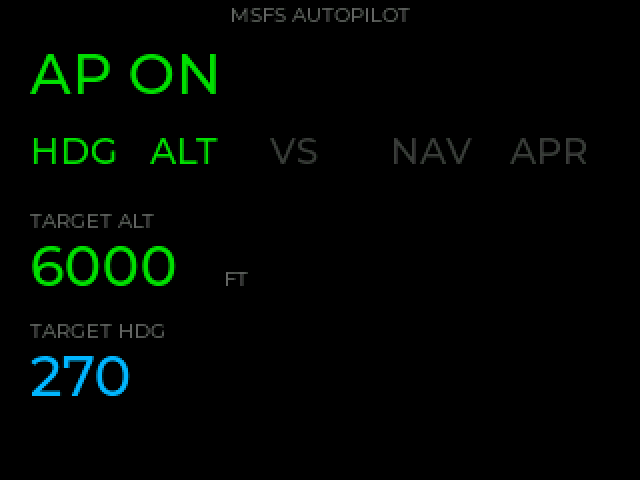
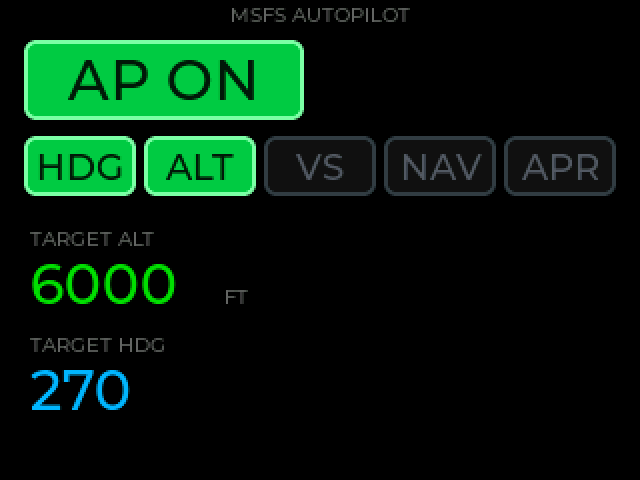
Autopilot annunciator tiles; compass starts at the real heading
- AutopilotStatus: AP master and HDG/ALT/VS/NAV/APR as rounded tiles that
  light up green when engaged, readouts spaced below them
- NavDisplay: the first heading sample snaps instead of easing in from north

Claude-Session: https://claude.ai/code/session_01Amo2z6QrNcU4u27ABwkwBD

diff --git a/lib/hud_widgets/AutopilotStatus.h b/lib/hud_widgets/AutopilotStatus.h
@@ -16,21 +16,14 @@ public:
     lv_label_set_text(title, "MSFS AUTOPILOT");
     lv_obj_align(title, LV_ALIGN_TOP_MID, 0, 2);
 
-    // AP Master (large indicator)
-    _lblMaster = lv_label_create(parent);
-    lv_obj_set_style_text_font(_lblMaster, &lv_font_montserrat_28, 0);
-    lv_label_set_text(_lblMaster, "AP OFF");
-    lv_obj_set_style_text_color(_lblMaster, lv_color_make(100, 100, 100), 0);
-    lv_obj_set_pos(_lblMaster, 15, 22);
+    // AP Master: a large annunciator tile
+    _tileMaster = makeTile(parent, 12, 20, 140, 40, &lv_font_montserrat_28, "AP OFF");
+    _lblMaster = lv_obj_get_child(_tileMaster, 0);
 
-    // Mode annunciators (row)
+    // Mode annunciators: a row of tiles that light up when engaged
     static const char* MODE_NAMES[] = { "HDG", "ALT", "VS", "NAV", "APR" };
     for (int i = 0; i < 5; i++) {
-      _lblModes[i] = lv_label_create(parent);
-      lv_obj_set_style_text_font(_lblModes[i], &lv_font_montserrat_18, 0);
-      lv_obj_set_style_text_color(_lblModes[i], lv_color_make(60, 60, 60), 0);
-      lv_label_set_text(_lblModes[i], MODE_NAMES[i]);
-      lv_obj_set_pos(_lblModes[i], 15 + i * 60, 65);
+      _tileModes[i] = makeTile(parent, 12 + i * 60, 68, 56, 30, &lv_font_montserrat_18, MODE_NAMES[i]);
     }
 
     // Target altitude
@@ -38,32 +31,32 @@ public:
     lv_obj_set_style_text_color(altTitle, lv_color_make(100, 100, 100), 0);
     lv_obj_set_style_text_font(altTitle, &lv_font_montserrat_10, 0);
     lv_label_set_text(altTitle, "TARGET ALT");
-    lv_obj_set_pos(altTitle, 15, 105);
+    lv_obj_set_pos(altTitle, 15, 114);
 
     _lblTargetAlt = lv_label_create(parent);
     lv_obj_set_style_text_color(_lblTargetAlt, lv_color_make(0, 220, 0), 0);
     lv_obj_set_style_text_font(_lblTargetAlt, &lv_font_montserrat_28, 0);
     lv_label_set_text(_lblTargetAlt, "-----");
-    lv_obj_set_pos(_lblTargetAlt, 15, 118);
+    lv_obj_set_pos(_lblTargetAlt, 15, 127);
 
     lv_obj_t* ftLabel = lv_label_create(parent);
     lv_obj_set_style_text_color(ftLabel, lv_color_make(100, 100, 100), 0);
     lv_obj_set_style_text_font(ftLabel, &lv_font_montserrat_10, 0);
     lv_label_set_text(ftLabel, "FT");
-    lv_obj_set_pos(ftLabel, 112, 134);
+    lv_obj_set_pos(ftLabel, 112, 143);
 
     // Target heading
     lv_obj_t* hdgTitle = lv_label_create(parent);
     lv_obj_set_style_text_color(hdgTitle, lv_color_make(100, 100, 100), 0);
     lv_obj_set_style_text_font(hdgTitle, &lv_font_montserrat_10, 0);
     lv_label_set_text(hdgTitle, "TARGET HDG");
-    lv_obj_set_pos(hdgTitle, 15, 160);
+    lv_obj_set_pos(hdgTitle, 15, 167);
 
     _lblTargetHdg = lv_label_create(parent);
     lv_obj_set_style_text_color(_lblTargetHdg, lv_color_make(0, 180, 255), 0);
     lv_obj_set_style_text_font(_lblTargetHdg, &lv_font_montserrat_28, 0);
     lv_label_set_text(_lblTargetHdg, "---");
-    lv_obj_set_pos(_lblTargetHdg, 15, 173);
+    lv_obj_set_pos(_lblTargetHdg, 15, 180);
   }
 
   void setValue(uint16_t modeFlags, int32_t targetAlt, int16_t targetHdg) {
@@ -76,14 +69,11 @@ public:
     // AP Master
     bool master = modeFlags & 0x01;
     lv_label_set_text(_lblMaster, master ? "AP ON" : "AP OFF");
-    lv_obj_set_style_text_color(_lblMaster,
-      master ? lv_color_make(0, 220, 0) : lv_color_make(100, 100, 100), 0);
+    setTile(_tileMaster, master);
 
     // Mode annunciators: bits 1-5 map to HDG, ALT, VS, NAV, APR
     for (int i = 0; i < 5; i++) {
-      bool active = modeFlags & (1 << (i + 1));
-      lv_obj_set_style_text_color(_lblModes[i],
-        active ? lv_color_make(0, 220, 0) : lv_color_make(60, 60, 60), 0);
+      setTile(_tileModes[i], modeFlags & (1 << (i + 1)));
     }
 
     // Target altitude
@@ -104,11 +94,42 @@ public:
   }
 
 private:
+  /// Rounded annunciator tile with a centred label (child 0).
+  static lv_obj_t* makeTile(lv_obj_t* parent, int x, int y, int w, int h,
+                            const lv_font_t* font, const char* text) {
+    lv_obj_t* tile = lv_obj_create(parent);
+    lv_obj_remove_style_all(tile);
+    lv_obj_remove_flag(tile, LV_OBJ_FLAG_CLICKABLE);
+    lv_obj_remove_flag(tile, LV_OBJ_FLAG_SCROLLABLE);
+    lv_obj_set_pos(tile, x, y);
+    lv_obj_set_size(tile, w, h);
+    lv_obj_set_style_radius(tile, 6, 0);
+    lv_obj_set_style_bg_opa(tile, LV_OPA_COVER, 0);
+    lv_obj_set_style_border_width(tile, 2, 0);
+
+    lv_obj_t* lbl = lv_label_create(tile);
+    lv_obj_set_style_text_font(lbl, font, 0);
+    lv_label_set_text(lbl, text);
+    lv_obj_center(lbl);
+    setTile(tile, false);
+    return tile;
+  }
+
+  /// Engaged: lit green with dark text. Off: dark tile, dim outline and text.
+  static void setTile(lv_obj_t* tile, bool on) {
+    lv_obj_t* lbl = lv_obj_get_child(tile, 0);
+    lv_obj_set_style_bg_color(tile, on ? lv_color_make(0, 200, 70) : lv_color_make(16, 18, 22), 0);
+    lv_obj_set_style_border_color(tile, on ? lv_color_make(120, 255, 160) : lv_color_make(55, 60, 66), 0);
+    lv_obj_set_style_text_color(lbl, on ? lv_color_make(0, 24, 8) : lv_color_make(85, 90, 96), 0);
+    lv_obj_center(lbl);  // the text width changes ("AP ON" / "AP OFF")
+  }
+
+  lv_obj_t* _tileMaster = nullptr;
+  lv_obj_t* _tileModes[5] = {};
   uint16_t _prevFlags = UINT16_MAX;
   int32_t _prevAlt = INT32_MIN;
   int16_t _prevHdg = INT16_MIN;
   lv_obj_t* _lblMaster = nullptr;
-  lv_obj_t* _lblModes[5] = {};
   lv_obj_t* _lblTargetAlt = nullptr;
   lv_obj_t* _lblTargetHdg = nullptr;
 };

diff --git a/ship_hud/AutopilotStatus.h b/ship_hud/AutopilotStatus.h
@@ -16,21 +16,14 @@ public:
     lv_label_set_text(title, "MSFS AUTOPILOT");
     lv_obj_align(title, LV_ALIGN_TOP_MID, 0, 2);
 
-    // AP Master (large indicator)
-    _lblMaster = lv_label_create(parent);
-    lv_obj_set_style_text_font(_lblMaster, &lv_font_montserrat_28, 0);
-    lv_label_set_text(_lblMaster, "AP OFF");
-    lv_obj_set_style_text_color(_lblMaster, lv_color_make(100, 100, 100), 0);
-    lv_obj_set_pos(_lblMaster, 15, 22);
+    // AP Master: a large annunciator tile
+    _tileMaster = makeTile(parent, 12, 20, 140, 40, &lv_font_montserrat_28, "AP OFF");
+    _lblMaster = lv_obj_get_child(_tileMaster, 0);
 
-    // Mode annunciators (row)
+    // Mode annunciators: a row of tiles that light up when engaged
     static const char* MODE_NAMES[] = { "HDG", "ALT", "VS", "NAV", "APR" };
     for (int i = 0; i < 5; i++) {
-      _lblModes[i] = lv_label_create(parent);
-      lv_obj_set_style_text_font(_lblModes[i], &lv_font_montserrat_18, 0);
-      lv_obj_set_style_text_color(_lblModes[i], lv_color_make(60, 60, 60), 0);
-      lv_label_set_text(_lblModes[i], MODE_NAMES[i]);
-      lv_obj_set_pos(_lblModes[i], 15 + i * 60, 65);
+      _tileModes[i] = makeTile(parent, 12 + i * 60, 68, 56, 30, &lv_font_montserrat_18, MODE_NAMES[i]);
     }
 
     // Target altitude
@@ -38,32 +31,32 @@ public:
     lv_obj_set_style_text_color(altTitle, lv_color_make(100, 100, 100), 0);
     lv_obj_set_style_text_font(altTitle, &lv_font_montserrat_10, 0);
     lv_label_set_text(altTitle, "TARGET ALT");
-    lv_obj_set_pos(altTitle, 15, 105);
+    lv_obj_set_pos(altTitle, 15, 114);
 
     _lblTargetAlt = lv_label_create(parent);
     lv_obj_set_style_text_color(_lblTargetAlt, lv_color_make(0, 220, 0), 0);
     lv_obj_set_style_text_font(_lblTargetAlt, &lv_font_montserrat_28, 0);
     lv_label_set_text(_lblTargetAlt, "-----");
-    lv_obj_set_pos(_lblTargetAlt, 15, 118);
+    lv_obj_set_pos(_lblTargetAlt, 15, 127);
 
     lv_obj_t* ftLabel = lv_label_create(parent);
     lv_obj_set_style_text_color(ftLabel, lv_color_make(100, 100, 100), 0);
     lv_obj_set_style_text_font(ftLabel, &lv_font_montserrat_10, 0);
     lv_label_set_text(ftLabel, "FT");
-    lv_obj_set_pos(ftLabel, 112, 134);
+    lv_obj_set_pos(ftLabel, 112, 143);
 
     // Target heading
     lv_obj_t* hdgTitle = lv_label_create(parent);
     lv_obj_set_style_text_color(hdgTitle, lv_color_make(100, 100, 100), 0);
     lv_obj_set_style_text_font(hdgTitle, &lv_font_montserrat_10, 0);
     lv_label_set_text(hdgTitle, "TARGET HDG");
-    lv_obj_set_pos(hdgTitle, 15, 160);
+    lv_obj_set_pos(hdgTitle, 15, 167);
 
     _lblTargetHdg = lv_label_create(parent);
     lv_obj_set_style_text_color(_lblTargetHdg, lv_color_make(0, 180, 255), 0);
     lv_obj_set_style_text_font(_lblTargetHdg, &lv_font_montserrat_28, 0);
     lv_label_set_text(_lblTargetHdg, "---");
-    lv_obj_set_pos(_lblTargetHdg, 15, 173);
+    lv_obj_set_pos(_lblTargetHdg, 15, 180);
   }
 
   void setValue(uint16_t modeFlags, int32_t targetAlt, int16_t targetHdg) {
@@ -76,14 +69,11 @@ public:
     // AP Master
     bool master = modeFlags & 0x01;
     lv_label_set_text(_lblMaster, master ? "AP ON" : "AP OFF");
-    lv_obj_set_style_text_color(_lblMaster,
-      master ? lv_color_make(0, 220, 0) : lv_color_make(100, 100, 100), 0);
+    setTile(_tileMaster, master);
 
     // Mode annunciators: bits 1-5 map to HDG, ALT, VS, NAV, APR
     for (int i = 0; i < 5; i++) {
-      bool active = modeFlags & (1 << (i + 1));
-      lv_obj_set_style_text_color(_lblModes[i],
-        active ? lv_color_make(0, 220, 0) : lv_color_make(60, 60, 60), 0);
+      setTile(_tileModes[i], modeFlags & (1 << (i + 1)));
     }
 
     // Target altitude
@@ -104,11 +94,42 @@ public:
   }
 
 private:
+  /// Rounded annunciator tile with a centred label (child 0).
+  static lv_obj_t* makeTile(lv_obj_t* parent, int x, int y, int w, int h,
+                            const lv_font_t* font, const char* text) {
+    lv_obj_t* tile = lv_obj_create(parent);
+    lv_obj_remove_style_all(tile);
+    lv_obj_remove_flag(tile, LV_OBJ_FLAG_CLICKABLE);
+    lv_obj_remove_flag(tile, LV_OBJ_FLAG_SCROLLABLE);
+    lv_obj_set_pos(tile, x, y);
+    lv_obj_set_size(tile, w, h);
+    lv_obj_set_style_radius(tile, 6, 0);
+    lv_obj_set_style_bg_opa(tile, LV_OPA_COVER, 0);
+    lv_obj_set_style_border_width(tile, 2, 0);
+
+    lv_obj_t* lbl = lv_label_create(tile);
+    lv_obj_set_style_text_font(lbl, font, 0);
+    lv_label_set_text(lbl, text);
+    lv_obj_center(lbl);
+    setTile(tile, false);
+    return tile;
+  }
+
+  /// Engaged: lit green with dark text. Off: dark tile, dim outline and text.
+  static void setTile(lv_obj_t* tile, bool on) {
+    lv_obj_t* lbl = lv_obj_get_child(tile, 0);
+    lv_obj_set_style_bg_color(tile, on ? lv_color_make(0, 200, 70) : lv_color_make(16, 18, 22), 0);
+    lv_obj_set_style_border_color(tile, on ? lv_color_make(120, 255, 160) : lv_color_make(55, 60, 66), 0);
+    lv_obj_set_style_text_color(lbl, on ? lv_color_make(0, 24, 8) : lv_color_make(85, 90, 96), 0);
+    lv_obj_center(lbl);  // the text width changes ("AP ON" / "AP OFF")
+  }
+
+  lv_obj_t* _tileMaster = nullptr;
+  lv_obj_t* _tileModes[5] = {};
   uint16_t _prevFlags = UINT16_MAX;
   int32_t _prevAlt = INT32_MIN;
   int16_t _prevHdg = INT16_MIN;
   lv_obj_t* _lblMaster = nullptr;
-  lv_obj_t* _lblModes[5] = {};
   lv_obj_t* _lblTargetAlt = nullptr;
   lv_obj_t* _lblTargetHdg = nullptr;
 };

diff --git a/lib/hud_widgets/NavDisplay.h b/lib/hud_widgets/NavDisplay.h
@@ -100,7 +100,8 @@ public:
   /// Aircraft heading in tenths of a degree (from the attitude message).
   void setHeading(int16_t heading) {
     if (!_compass) return;
-    _heading.setTarget(heading, !hud::animate);
+    _heading.setTarget(heading, !hud::animate || !_hasHeading);
+    _hasHeading = true;
     _compassDirty = true;
     if (!hud::animate) layoutCompass();
   }
@@ -178,6 +179,7 @@ private:
   SmoothedValue _heading{3600.0f};
   int16_t _hdgBug = 0, _wpBearing = 0;
   bool _hasWaypoint = false;
+  bool _hasHeading = false;
   bool _compassDirty = true;
   uint32_t _lastTickMs = 0;
   int _shownHdg = -1;

diff --git a/ship_hud/NavDisplay.h b/ship_hud/NavDisplay.h
@@ -100,7 +100,8 @@ public:
   /// Aircraft heading in tenths of a degree (from the attitude message).
   void setHeading(int16_t heading) {
     if (!_compass) return;
-    _heading.setTarget(heading, !hud::animate);
+    _heading.setTarget(heading, !hud::animate || !_hasHeading);
+    _hasHeading = true;
     _compassDirty = true;
     if (!hud::animate) layoutCompass();
   }
@@ -178,6 +179,7 @@ private:
   SmoothedValue _heading{3600.0f};
   int16_t _hdgBug = 0, _wpBearing = 0;
   bool _hasWaypoint = false;
+  bool _hasHeading = false;
   bool _compassDirty = true;
   uint32_t _lastTickMs = 0;
   int _shownHdg = -1;

diff --git a/README.md b/README.md
@@ -18,7 +18,7 @@ Tap the touchscreen to cycle through the 7 screens.
     <td align="center"><img src="docs/images/config.png" width="270" alt="Aircraft configuration screen"><br><b>Config</b><br>Flaps, gear, elevator and rudder trim</td>
   </tr>
   <tr>
-    <td align="center"><img src="docs/images/autopilot.png" width="270" alt="Autopilot screen"><br><b>Autopilot</b><br>Master, mode annunciators, targets</td>
+    <td align="center"><img src="docs/images/autopilot.png" width="270" alt="Autopilot screen"><br><b>Autopilot</b><br>Lit mode annunciators, target altitude and heading</td>
     <td align="center"><img src="docs/images/alert.png" width="270" alt="Stall alert overlay"><br><b>Alerts</b><br>Blinking overlay on every screen, plus the red LED</td>
     <td></td>
   </tr>
